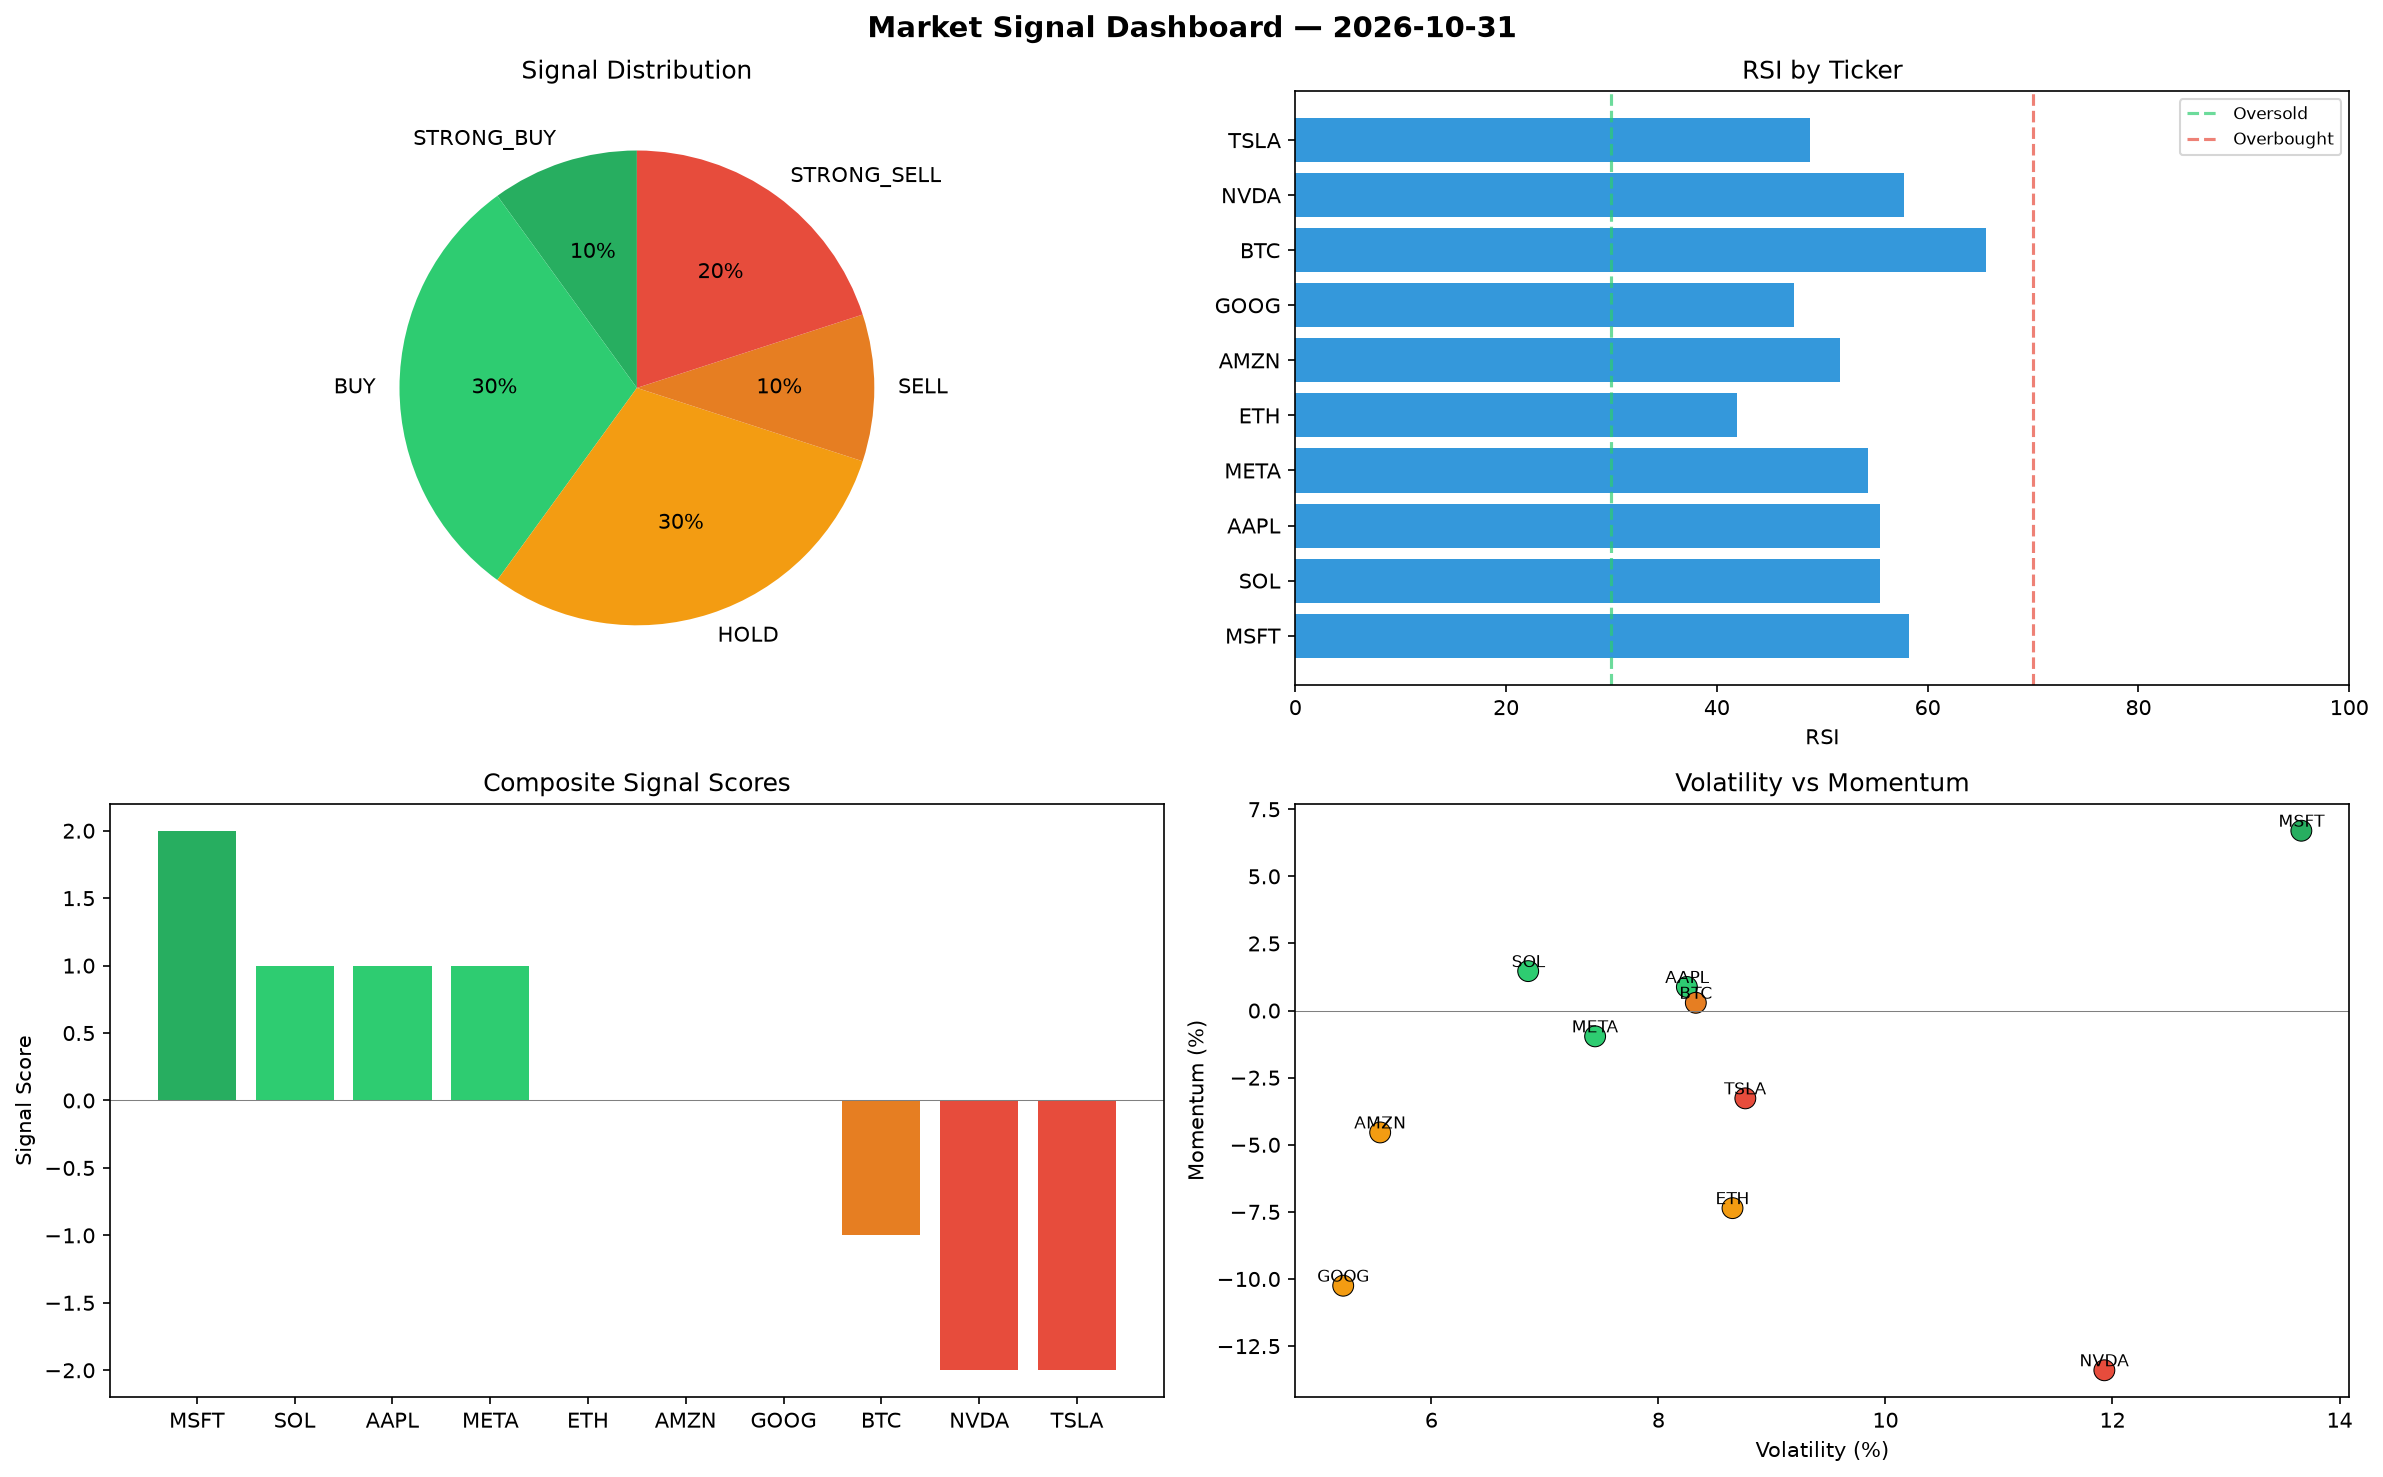
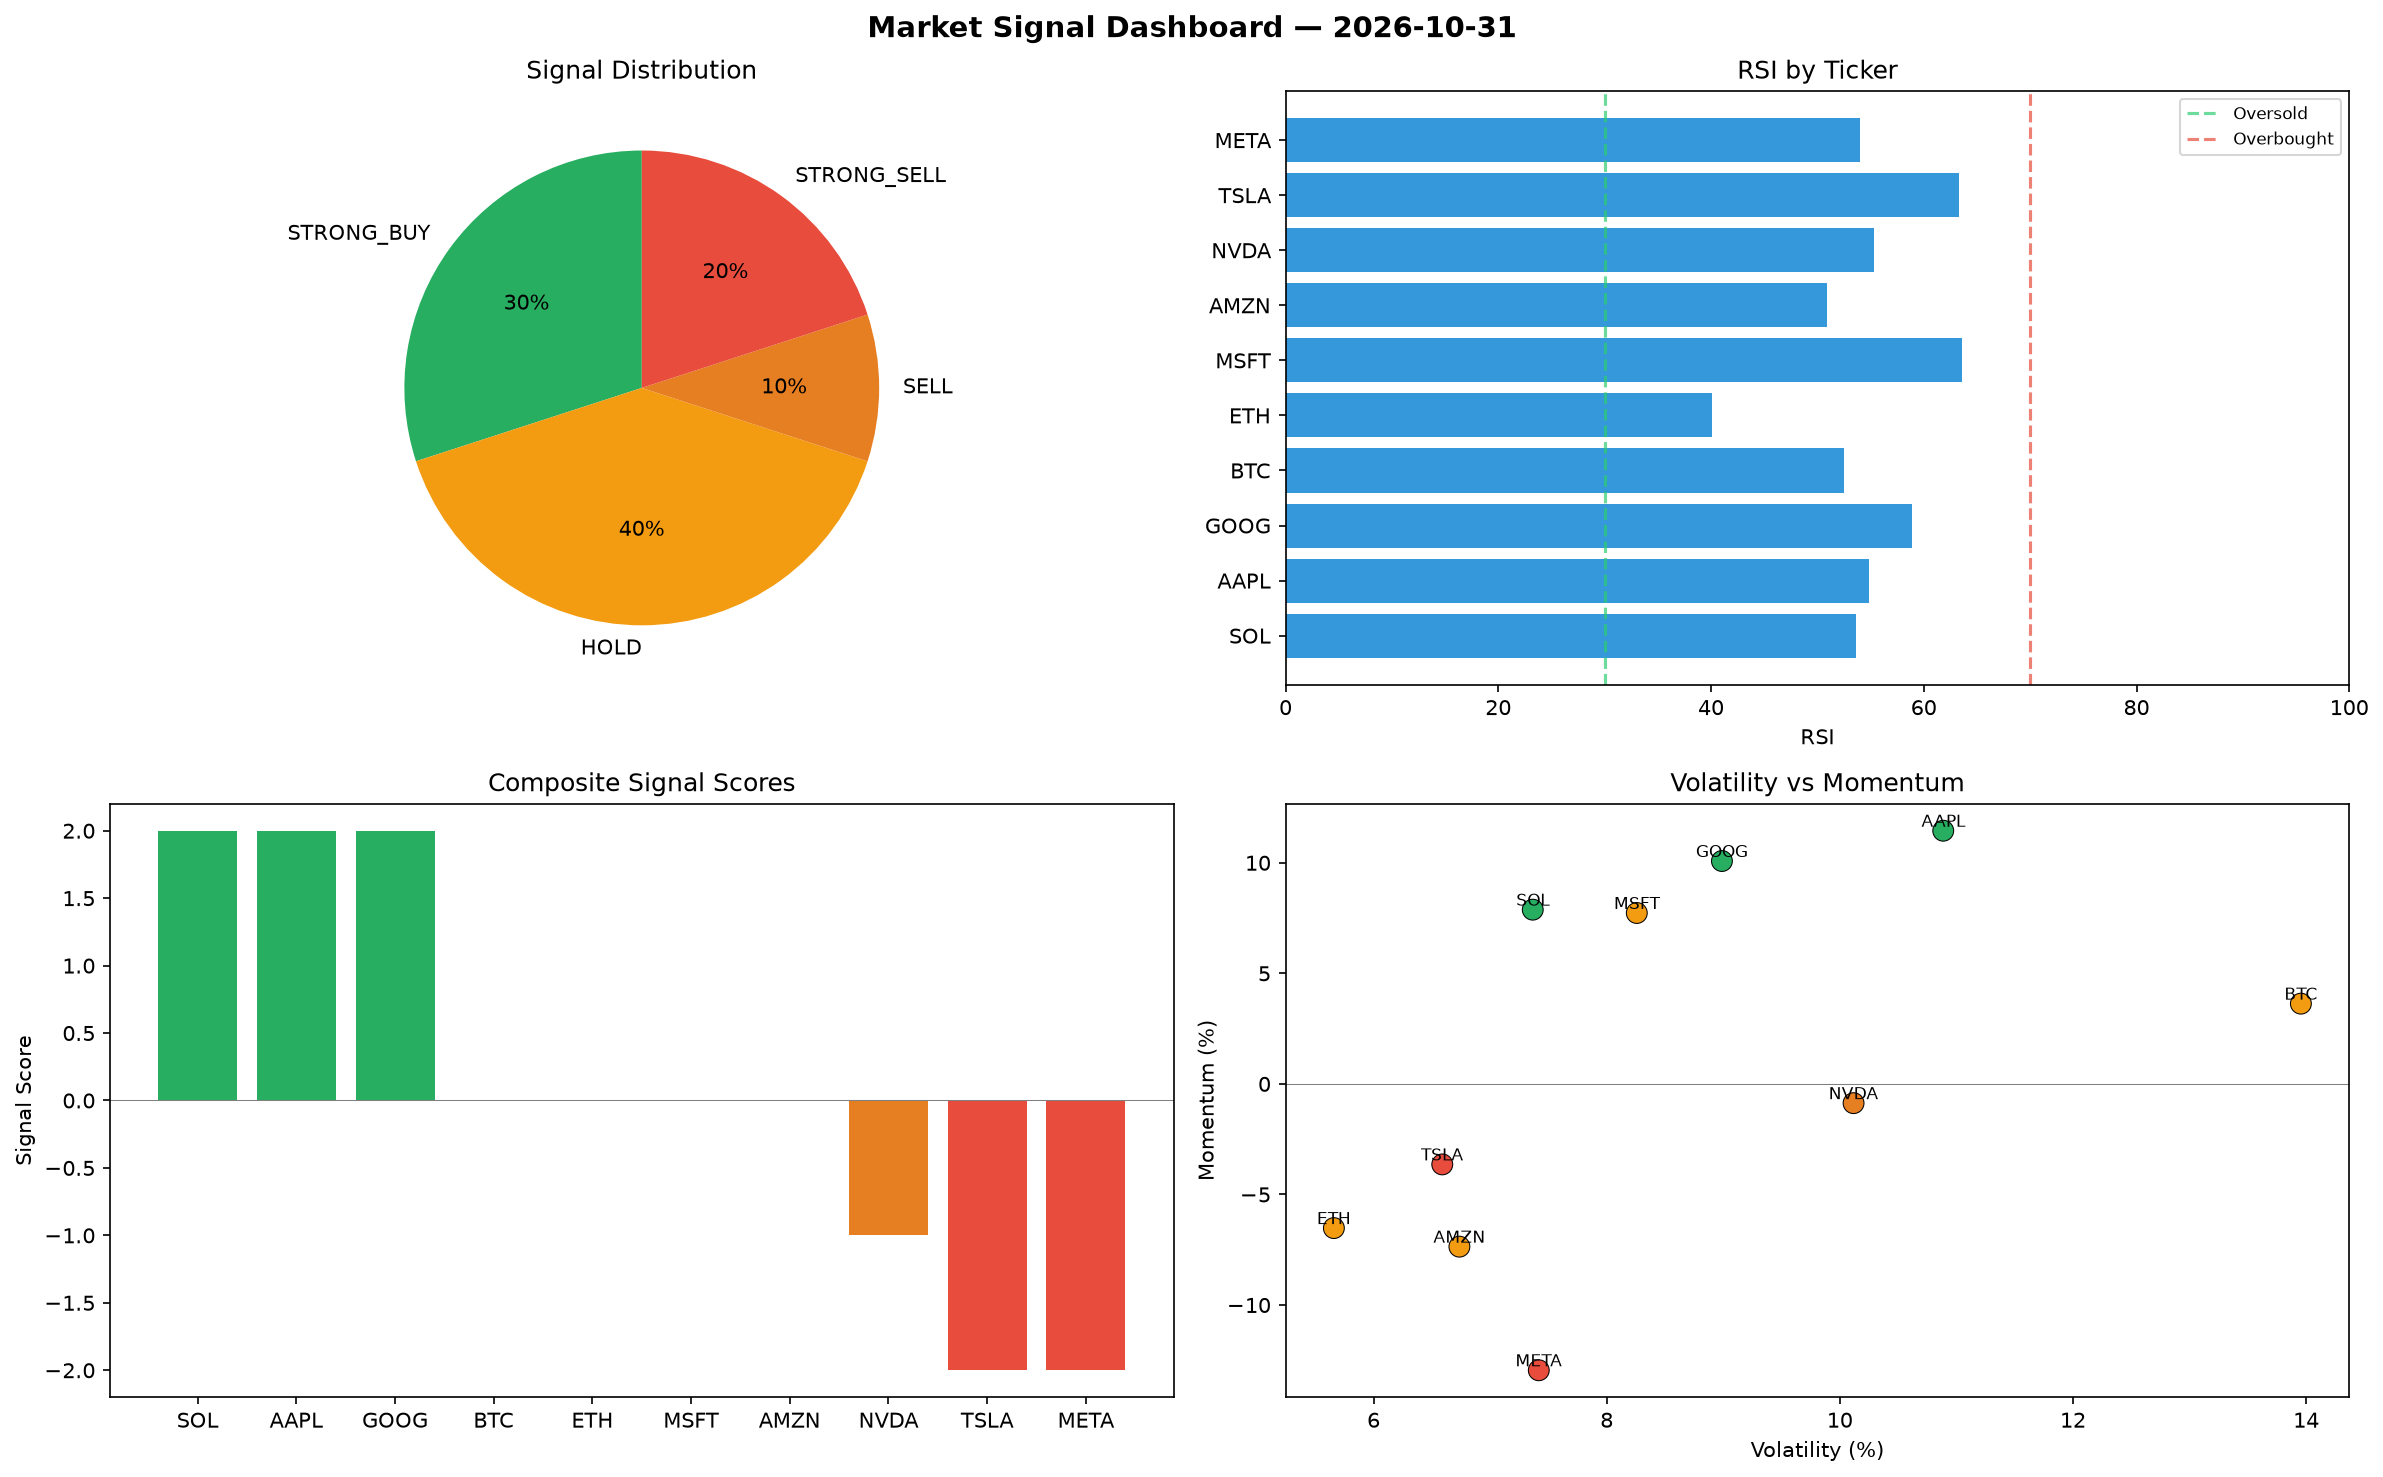
automated-bots: market signals 2026-10-31T14:38

diff --git a/logs/2026-10-31.md b/logs/2026-10-31.md
@@ -1,6 +1,6 @@
 # Market Signal Report — 2026-10-31
 
-**Run ID:** `f0ad3bc634` | **Buy:** 4 | **Sell:** 3 | **Hold:** 3
+**Run ID:** `3315459601` | **Buy:** 3 | **Sell:** 3 | **Hold:** 4
 
 ![Dashboard](2026-10-31_dashboard.png)
 
@@ -8,28 +8,28 @@
 
 | Ticker | Price | Signal | Score | RSI | Momentum | Confidence |
 |--------|-------|--------|-------|-----|----------|------------|
-| MSFT | $4222.11 | **STRONG_BUY** | 2 | 58.22 | 0.067 | 0.5 |
-| SOL | $417.93 | **BUY** | 1 | 55.51 | 0.0147 | 0.25 |
-| AAPL | $2453.58 | **BUY** | 1 | 55.44 | 0.0088 | 0.25 |
-| META | $3342.85 | **BUY** | 1 | 54.36 | -0.0096 | 0.25 |
-| ETH | $1202.75 | **HOLD** | 0 | 41.89 | -0.0736 | 0.0 |
-| AMZN | $4504.24 | **HOLD** | 0 | 51.69 | -0.0454 | 0.0 |
-| GOOG | $2487.22 | **HOLD** | 0 | 47.33 | -0.1025 | 0.0 |
-| BTC | $3870.1 | **SELL** | -1 | 65.52 | 0.0029 | 0.25 |
-| NVDA | $3413.18 | **STRONG_SELL** | -2 | 57.74 | -0.134 | 0.5 |
-| TSLA | $1651.84 | **STRONG_SELL** | -2 | 48.88 | -0.0327 | 0.5 |
+| SOL | $4754.25 | **STRONG_BUY** | 2 | 53.61 | 0.0788 | 0.5 |
+| AAPL | $2011.42 | **STRONG_BUY** | 2 | 54.83 | 0.1145 | 0.5 |
+| GOOG | $3522.26 | **STRONG_BUY** | 2 | 58.93 | 0.1008 | 0.5 |
+| BTC | $659.19 | **HOLD** | 0 | 52.5 | 0.0363 | 0.0 |
+| ETH | $599.98 | **HOLD** | 0 | 40.09 | -0.0652 | 0.0 |
+| MSFT | $502.26 | **HOLD** | 0 | 63.58 | 0.0773 | 0.0 |
+| AMZN | $470.58 | **HOLD** | 0 | 50.91 | -0.0736 | 0.0 |
+| NVDA | $391.29 | **SELL** | -1 | 55.28 | -0.0087 | 0.25 |
+| TSLA | $2610.4 | **STRONG_SELL** | -2 | 63.32 | -0.0364 | 0.5 |
+| META | $993.32 | **STRONG_SELL** | -2 | 53.99 | -0.1295 | 0.5 |
 
 ## Delta vs Yesterday
 
 | Ticker | Today | Yesterday | Price Change | Signal Changed |
 |--------|-------|-----------|-------------|----------------|
-| MSFT | STRONG_BUY | STRONG_BUY | 📉 -8.9% | — |
-| SOL | BUY | STRONG_SELL | 📉 -57.59% | ⚠ YES |
-| AAPL | BUY | STRONG_BUY | 📈 10.34% | ⚠ YES |
-| META | BUY | HOLD | 📈 3.74% | ⚠ YES |
-| ETH | HOLD | HOLD | 📉 -67.97% | — |
-| AMZN | HOLD | STRONG_BUY | 📈 232.04% | ⚠ YES |
-| GOOG | HOLD | STRONG_BUY | 📈 80.34% | ⚠ YES |
-| BTC | SELL | STRONG_BUY | 📈 130.57% | ⚠ YES |
-| NVDA | STRONG_SELL | BUY | 📉 -24.32% | ⚠ YES |
-| TSLA | STRONG_SELL | HOLD | 📉 -10.01% | ⚠ YES |
+| SOL | STRONG_BUY | STRONG_SELL | 📈 382.43% | ⚠ YES |
+| AAPL | STRONG_BUY | STRONG_BUY | 📉 -9.55% | — |
+| GOOG | STRONG_BUY | STRONG_BUY | 📈 155.39% | — |
+| BTC | HOLD | STRONG_BUY | 📉 -60.73% | ⚠ YES |
+| ETH | HOLD | HOLD | 📉 -84.02% | — |
+| MSFT | HOLD | STRONG_BUY | 📉 -89.16% | ⚠ YES |
+| AMZN | HOLD | STRONG_BUY | 📉 -65.31% | ⚠ YES |
+| NVDA | SELL | BUY | 📉 -91.32% | ⚠ YES |
+| TSLA | STRONG_SELL | HOLD | 📈 42.21% | ⚠ YES |
+| META | STRONG_SELL | HOLD | 📉 -69.17% | ⚠ YES |
